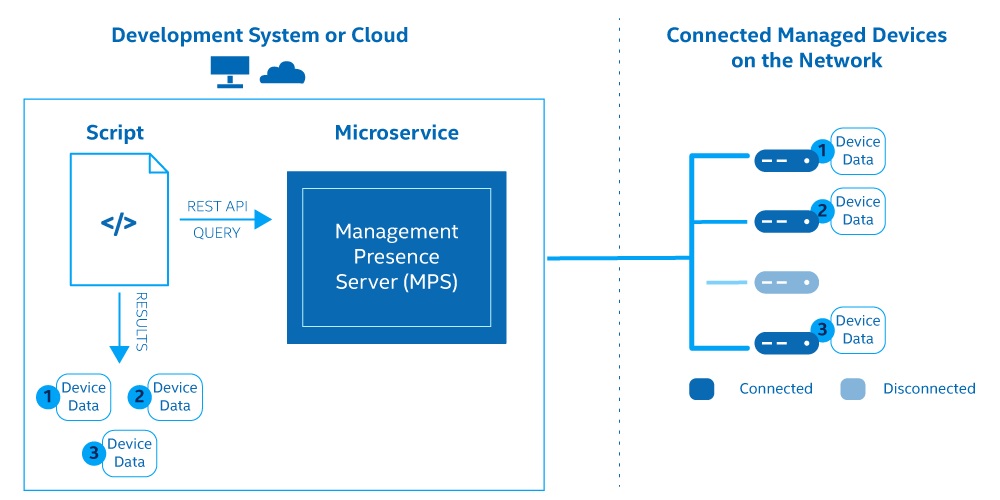
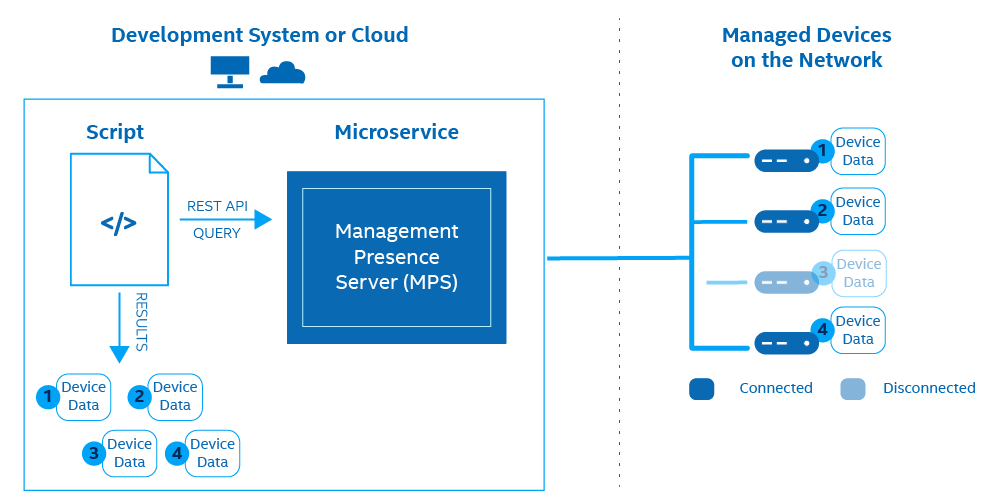
docs: correcting architecture images

diff --git a/docs/Microservices/overview.md b/docs/Microservices/overview.md
@@ -2,17 +2,18 @@
 
 Figure 1 illustrates the high-level architecture of Open AMT Cloud Toolkit microservice architecture.
 
-![../assets/images/AEHighLevelArch.png](../assets/images/HiLevelArchitecture.png)
+![../assets/images/AEHighLevelArch.png](../assets/images/ArchitecturalFlow.png)
 
-**Figure 1: Deploy Management Presence Server (MPS) and the Remote Provisioning Server (RPS) on a development system.**
+**Figure 1: Deploy Open AMT Cloud Toolkit**
 
-As shown in Figure 1, the architecture consists of five components:
+Figure 1 illustrates the high-level steps for basic deployment: 
 
-1. **MPS** - A microservice that uses an Intel vPro® platform feature, Client Initiated Remote Access (CIRA), for enabling edge, cloud devices to maintain a persistent connection for out-of-band manageability features, such as power control or Keyboard, Video, and Mouse (KVM) control.
-2. **RPS** - A microservice that activates Intel® Active Management Technology (Intel® AMT) using predefined profiles and connects them to the MPS for manageability use cases.
-3. **RPC** - A lightweight client application that communicates with the RPS server to activate Intel® AMT.
-4. **UI Toolkit** - A toolkit that includes prebuilt React components and a reference implementation web console. The React-based snippets simplify the task of adding complex manageability-related UI controls, such as the KVM, to a console. 
-5. **Sample Web UI** - A web based UI that demonstrates how to use the UI Toolkit. It also provides a way to interact with the microservices and to help provide context as to how each microservice is used.
+1. **Deploy Microservices** - Install the microservices on a development system as Docker* containers, which can run locally or on the cloud.
+2. **Deploy RPC Architecture** - Transfer the lightweight clients to managed devices.
+3. **Configure AMT** - Through the RPS, configure AMT by creating control mode profile(s).
+4. **Connect AMT** - Use the MPS to manage connectivity, as this microservice listens for the call home messaging of managed devices.  
+5. **Issue AMT Command** - Send power commands (e.g., power off) through the MPS.
+6. **Add AMT functionality** - Explore the additional functionality provided by Open AMT Cloud Toolkit to develop your own web console or application.
 
 
 ## Out-of-band Management (OOB Management)
